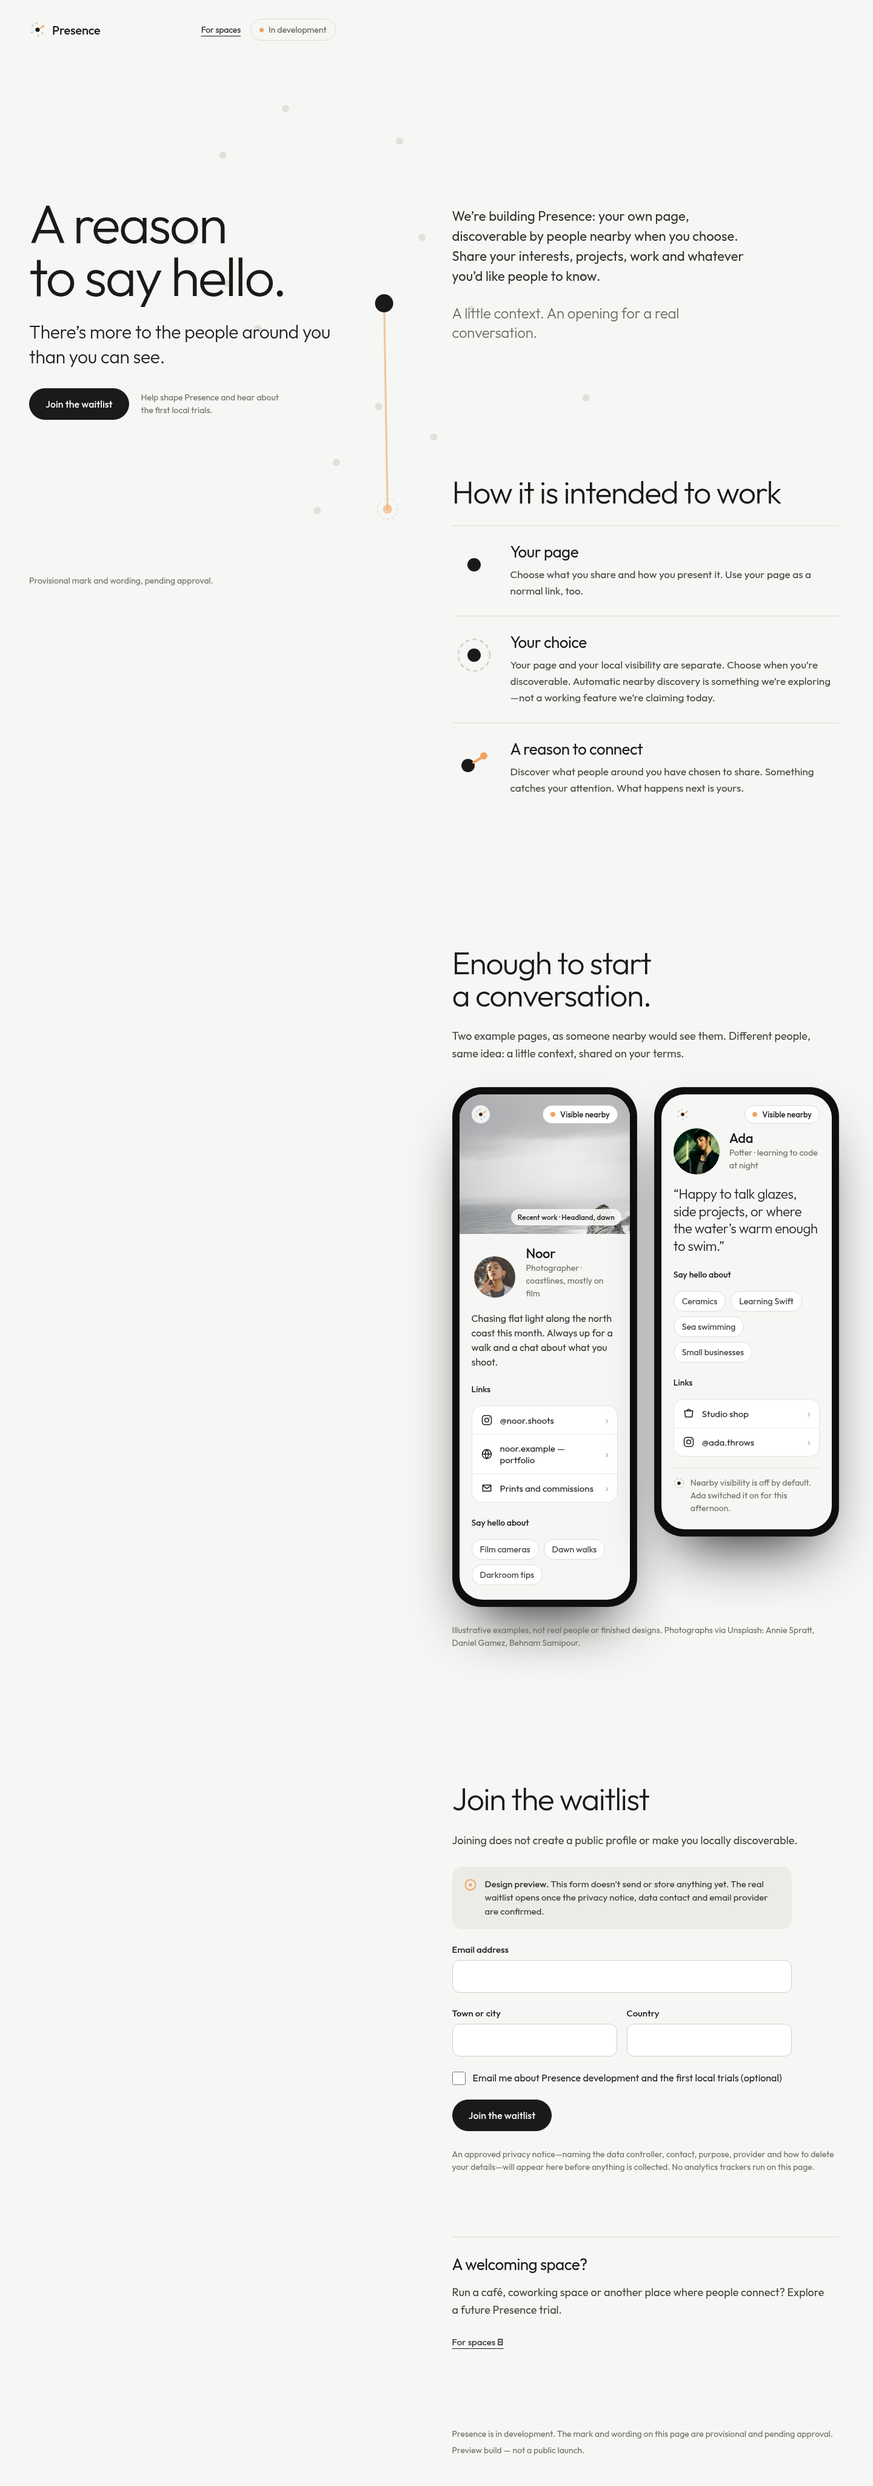
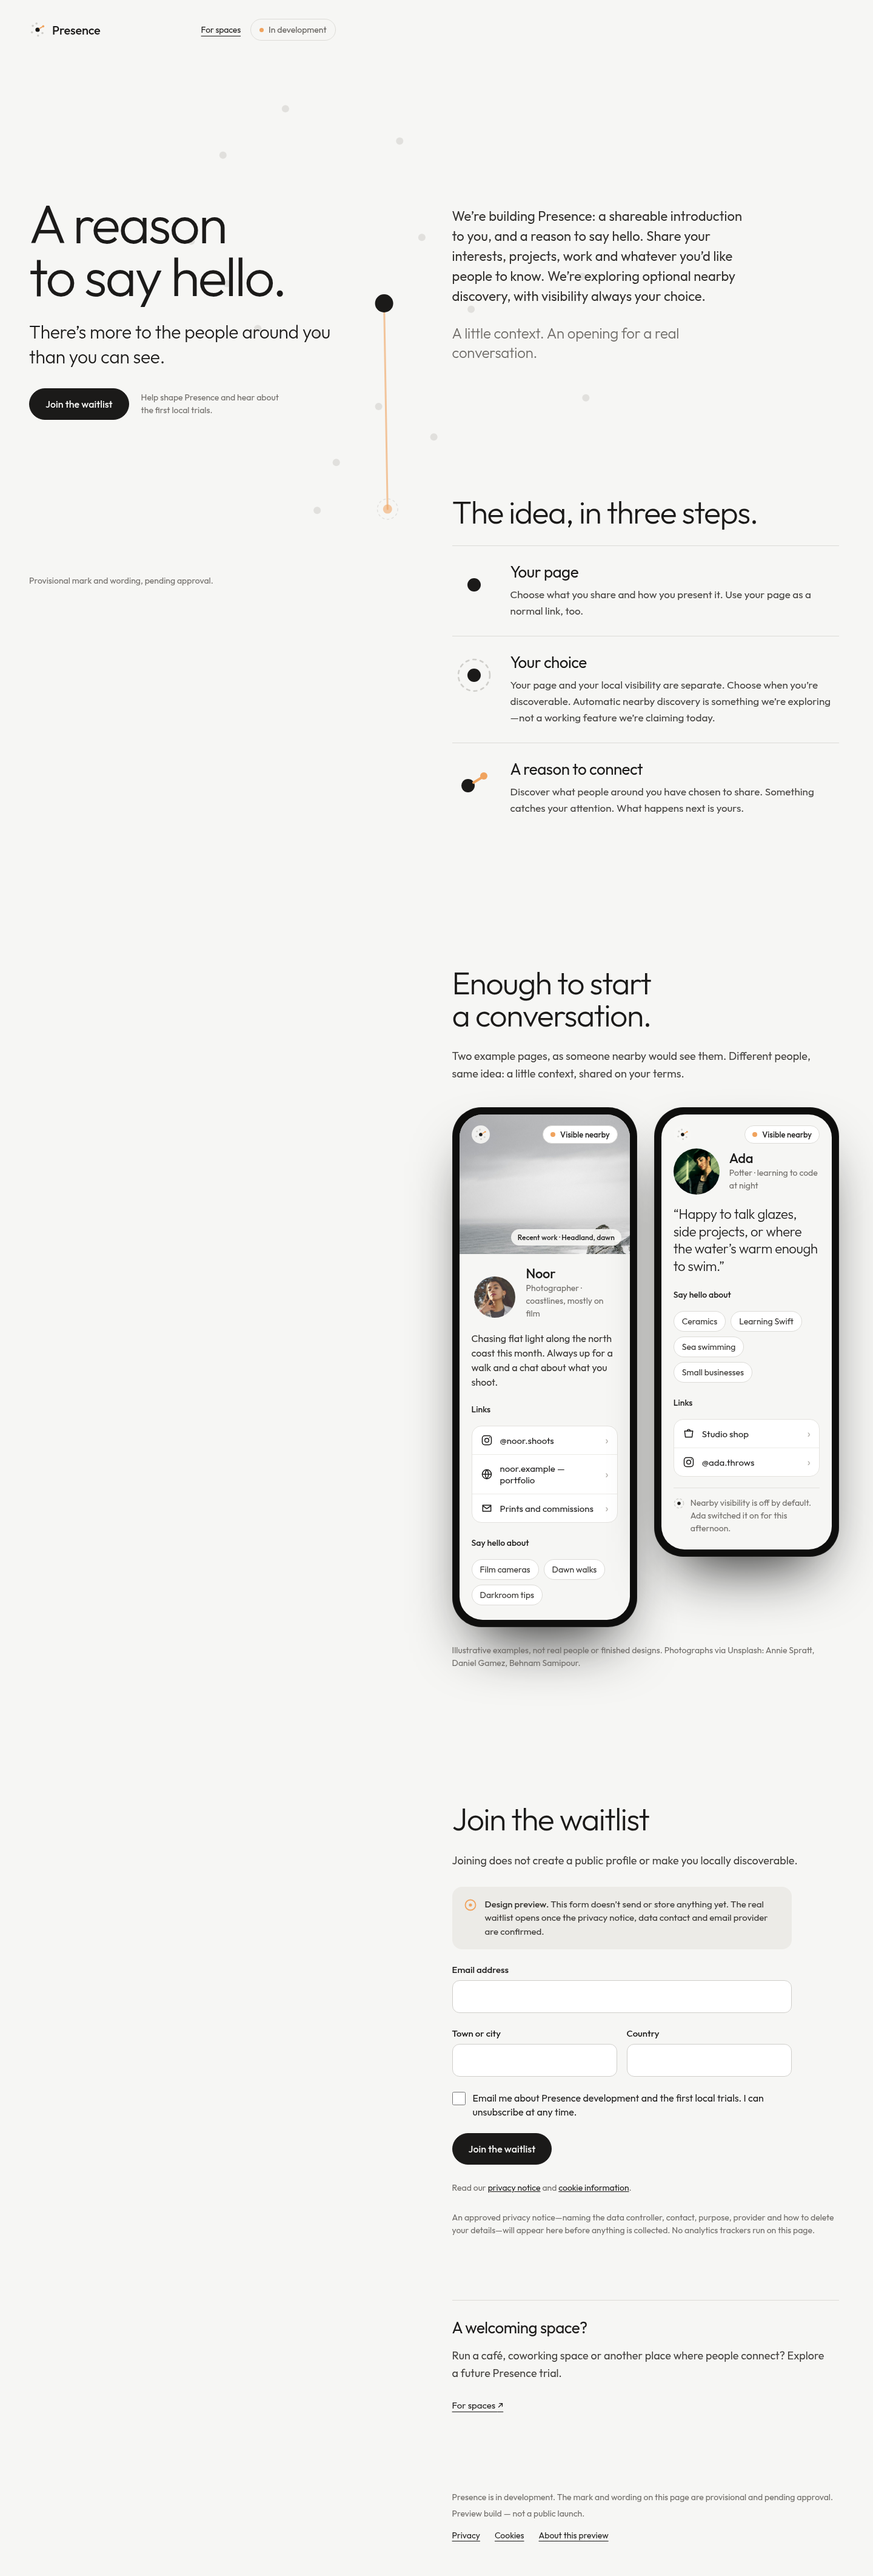
Lead Presence introduction with sharing and optional discovery

diff --git a/index.html b/index.html
@@ -39,12 +39,12 @@
   <main class="right" id="main">
 
     <section class="rsec rsec-first" aria-label="What Presence is">
-      <p class="body body-lg">We’re building Presence: your own page, discoverable by people nearby when you choose. Share your interests, projects, work and whatever you’d like people to know.</p>
+      <p class="body body-lg">We’re building Presence: a shareable introduction to you, and a reason to say hello. Share your interests, projects, work and whatever you’d like people to know. We’re exploring optional nearby discovery, with visibility always your choice.</p>
       <p class="lede lede-soft">A little context. An opening for a real conversation.</p>
     </section>
 
     <section class="rsec" aria-labelledby="how-h">
-      <h2 id="how-h" class="h2">How it is intended to work</h2>
+      <h2 id="how-h" class="h2">The idea, in three steps.</h2>
       <div class="how-list">
         <article class="step-row">
           <svg class="glyph" viewBox="0 0 72 72" aria-hidden="true" focusable="false"><circle cx="36" cy="36" r="11" fill="#1B1A19"></circle></svg>
